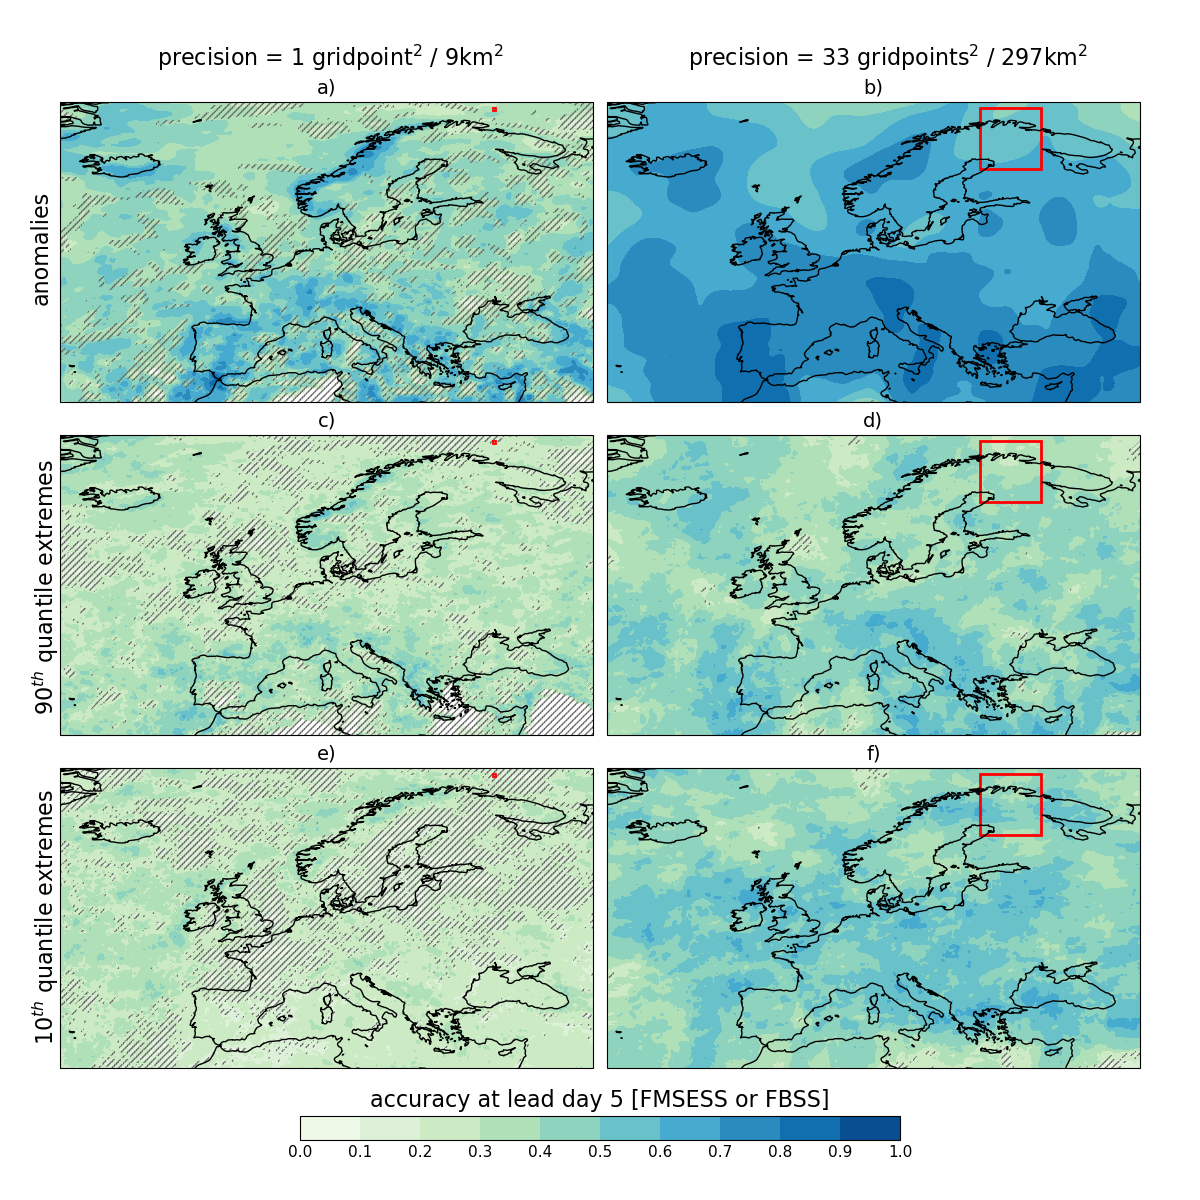
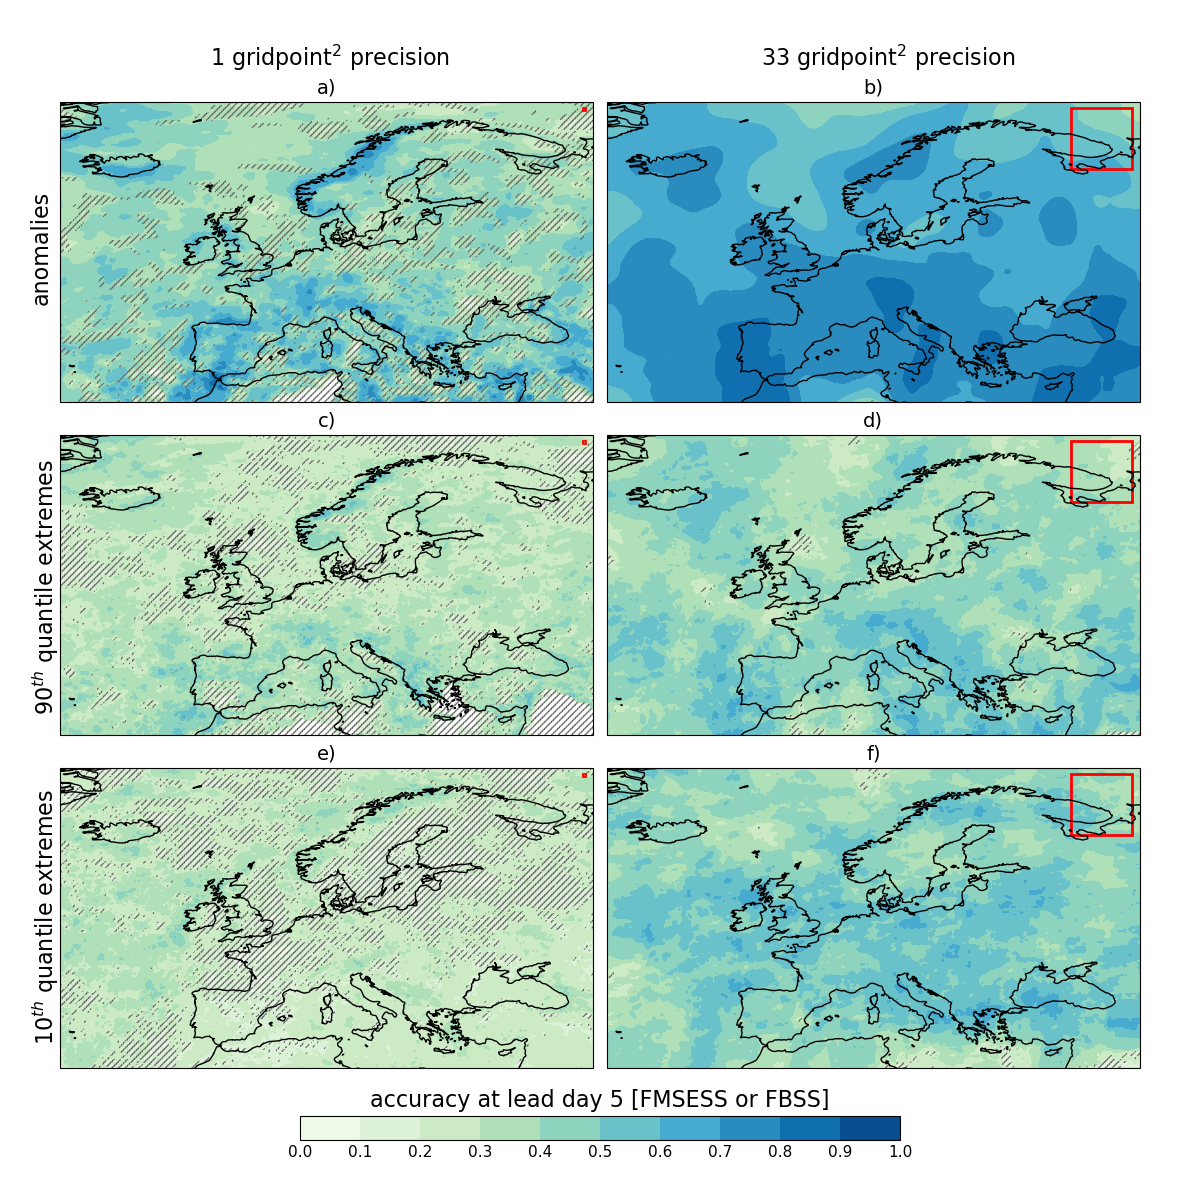
update

diff --git a/code/plot/plot-fig-02.py b/code/plot/plot-fig-02.py
@@ -26,11 +26,7 @@ def setup_subplot_xy(flag, ax, ds, clevs, cmap, fontsize):
         rectangle_length = 0.25
     else:
         rectangle_length = 0.25*33
-    rectangle        = plt.Rectangle((31.75, 72.75), rectangle_length, rectangle_length, angle=180, fc=(0.5,0.5,0.5,0),ec='r',lw=2)
-    #if (flag == 1) or (flag == 3) or (flag == 5):
-    #    rectangle = plt.Rectangle((-25, 34), 0.25, 0.25, fc='r',ec='r',lw=2)
-    #elif (flag == 2) or (flag == 4) or (flag == 6):
-    #    rectangle = plt.Rectangle((-25, 34), 8.25, 8.25, fc=(0.5,0.5,0.5,0),ec='r',lw=2)    
+    rectangle = plt.Rectangle((44, 72.75), rectangle_length, rectangle_length, angle=180, fc=(0.5,0.5,0.5,0),ec='r',lw=2)
     ax.add_patch(rectangle)
     
     return p
@@ -87,8 +83,8 @@ ax[3].set_title('d)',fontsize=fontsize+3)
 ax[4].set_title('e)',fontsize=fontsize+3)
 ax[5].set_title('f)',fontsize=fontsize+3)
 
-fig.text(0.275,0.945,'precision = 1 gridpoint$^{2}$ / 9km$^{2}$',horizontalalignment='center',fontsize=fontsize+5)
-fig.text(0.74,0.945,'precision = 33 gridpoints$^{2}$ / 297km$^{2}$',horizontalalignment='center',fontsize=fontsize+5)
+fig.text(0.275,0.945,'1 gridpoint$^{2}$ precision',horizontalalignment='center',fontsize=fontsize+5)
+fig.text(0.74,0.945,'33 gridpoint$^{2}$ precision',horizontalalignment='center',fontsize=fontsize+5)
 fig.text(0.025,0.75,'anomalies',rotation=90,fontsize=fontsize+5)
 fig.text(0.025,0.41,'90$^{th}$ quantile extremes',rotation=90,fontsize=fontsize+5)
 fig.text(0.025,0.135,'10$^{th}$ quantile extremes',rotation=90,fontsize=fontsize+5)
